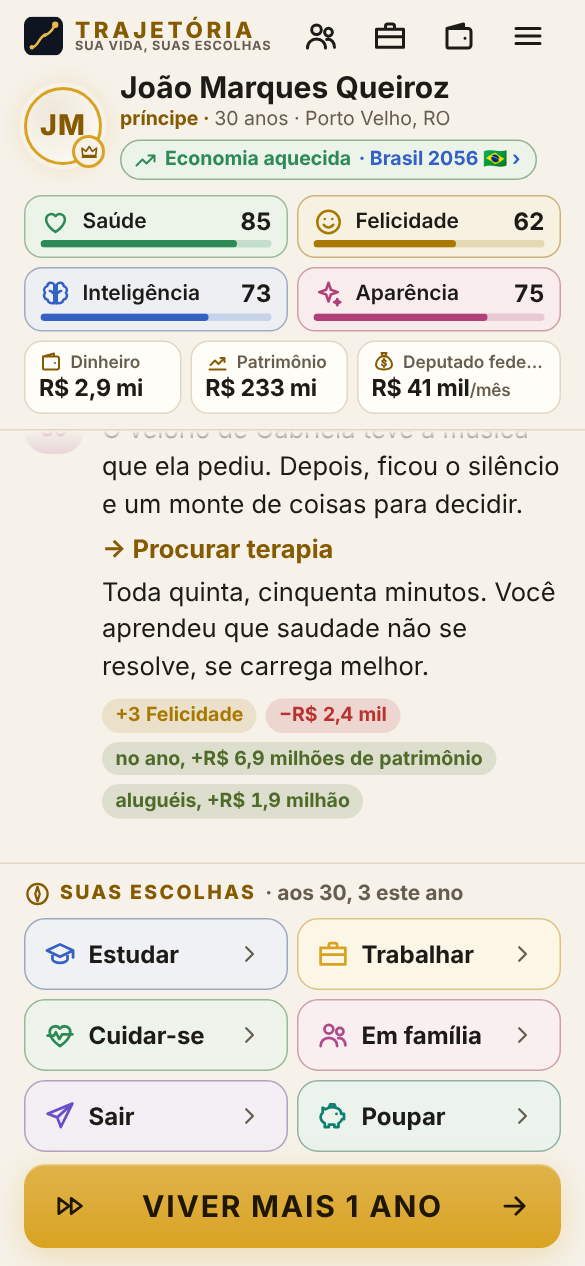
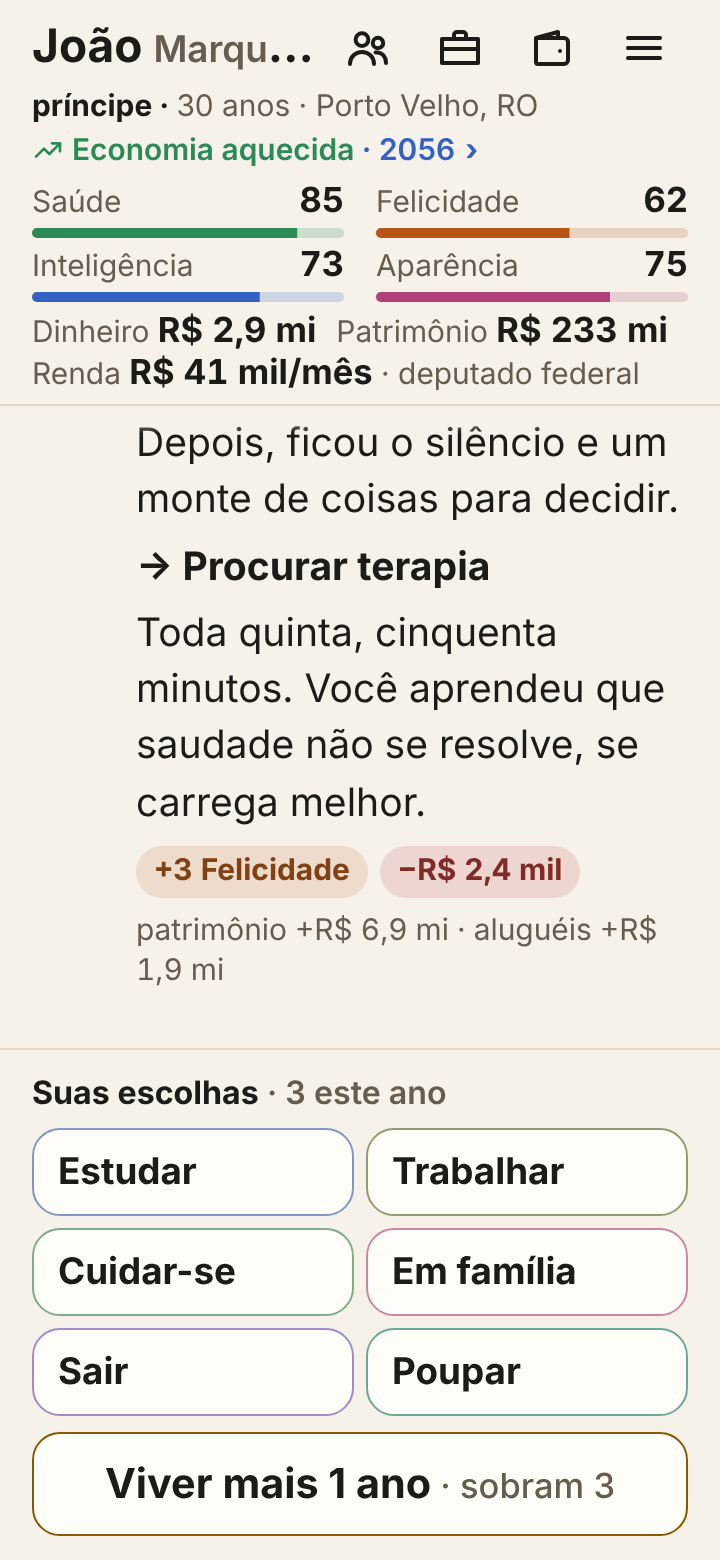
Docs: a correção C1 (README, CHANGELOG, decisões, ideias, roteiro, CLAUDE.md)
A tabela antes e depois na matriz de telas do dono, as decisões tomadas
sozinho, as duas decisões do V1 desfeitas (o botão dourado sempre e o
modo de letra grande) e as capturas novas da tela principal.

Claude-Session: https://claude.ai/code/session_01CaWs8gCUwGGhk5FAdTMm4u

diff --git a/docs/decisoes.md b/docs/decisoes.md
@@ -961,8 +961,8 @@ A tela de hoje já tinha todos os elementos do mockup, sem identidade visual. O 
 - **A rosca do patrimônio não entrou no cabeçalho.** Ela custaria mais 60 px de história. Vai para a folha Dinheiro (I-98).
 - **Iniciais no lugar da foto.** O jogo não tem imagens de pessoas, e um rosto sorteado seria um personagem que o conteúdo não conhece.
 - **O pacote não substituiu o código.** O JS dele é o bundle compilado de um APK anterior às últimas atualizações. Trocar a pasta web apagaria o bloco A e as fatias recentes, e o próprio README do pacote avisa do risco de reassinar o APK. As ideias de CSS dele entraram no código-fonte, na paleta do mockup (ouro, não terracota).
-- **O botão dourado sempre.** Antes, o "+1 ano" ficava cinza enquanto havia ação no ano, para puxar o jogador para os verbos. O mockup o põe sempre em ouro. A contagem "aos 30, 3 este ano" passa esse recado no título das escolhas.
-- **Detectar a letra grande em vez de adivinhar.** O app Android herda a fonte do celular, que aumenta o texto e não as caixas. Com a sonda, o arranjo estreito só aparece para quem precisa.
+- **O botão dourado sempre.** Antes, o "+1 ano" ficava cinza enquanto havia ação no ano, para puxar o jogador para os verbos. O mockup o põe sempre em ouro. A contagem "aos 30, 3 este ano" passa esse recado no título das escolhas. *Desfeita na correção C1 (20/10): no aparelho do dono a contagem saía cortada, e o botão dourado fazia passar o ano sem as escolhas.*
+- **Detectar a letra grande em vez de adivinhar.** O app Android herda a fonte do celular, que aumenta o texto e não as caixas. Com a sonda, o arranjo estreito só aparece para quem precisa. *Desfeita na correção C1 (20/10): o limiar trocava o arranjo de uma vez, e na letra do dono (1,45) os dois arranjos cortavam texto.*
 
 **Medidas** (navegador, a altura da linha do tempo; antes = a versão do bloco A):
 
@@ -1018,6 +1018,86 @@ O APK assinado sai do workflow `App Android` a cada push na `main`. O passo do G
 - **A rosca do patrimônio** (I-98).
 - **Escolher o tema dentro do jogo** (I-99).
 - **O ícone do app Android instalado** (I-100). Os ícones do navegador mudaram; os do APK são outros arquivos.
+
+## Correção C1: a história de volta ao centro (20/10)
+
+O dono jogou o V1 e respondeu com uma lista: perdeu qualidade, originalidade, diversão, hierarquia de interface e de cores, dimensionamento de tela e de botões, inteligência mecânica e de funcionamento, propósito, otimização, capacidade, carinho, cuidado e perfeição. "Faça o que é preciso para salvar o jogo."
+
+**O erro foi de medida.** O V1 foi medido num celular comum (390 × 844) com a letra normal, e a 360 × 760 com a letra em 1,45. O aparelho do dono tem 360 × 780 e a letra do sistema por volta de 1,45. Nesse aparelho:
+- a linha do tempo, que é a história, ficava com 20–28% da tela;
+- durante um evento, ela ficava com 11 px;
+- o dinheiro saía cortado com reticências.
+
+Uma auditoria com sete lentes e um cético por lente separou o que se confirma do que não se confirma (29 achados rejeitados, entre eles trocar o ouro por terracota: o tema noite e ouro é pedido do dono). O plano de correção tem três blocos:
+- C1, a interface (este);
+- C2, o texto que contradiz a vida;
+- C3, regras do motor que se medem errado.
+
+**O que mudou:**
+- **O cabeçalho virou uma faixa de texto.**
+  - Saíram a barra da marca, o retrato de iniciais e os cartões; o nome do jogo fica na abertura, no ícone e no cartão.
+  - O nome divide a linha com as quatro folhas.
+  - Embaixo vêm o título, a idade e a cidade, e depois o selo da economia, que é um link de texto.
+  - Os indicadores ficam em 2×2, com a barra fina.
+  - O dinheiro fica numa linha que quebra, sem cortar número. Com um evento, o cabeçalho mostra só o nome e o dinheiro.
+- **Um arranjo só.** Saíram o `letra.ts` e o modo de letra grande. O que precisa ceder cede por quebra de linha e por container queries em `em`: o ícone dos indicadores e dos verbos só aparece quando cabe.
+- **O cartão do evento é uma coluna.** O texto rola por dentro, com uma sombra na borda quando há mais. As opções ficam sempre à vista, e a história guarda três linhas.
+- **A rolagem mostra o começo do ano.** Depois do "+1 ano", a linha do tempo para no topo da primeira entrada nova, não no fim. O balanço do ano (o patrimônio, os aluguéis) virou uma linha pequena e neutra, sem pílula.
+- **O botão do ano muda com o estado.**
+  - Com escolhas sobrando, "Viver mais 1 ano · sobram 3" é o botão secundário.
+  - Sem escolhas (o bebê), é o dourado.
+  - O título das escolhas diz "Suas escolhas · 3 este ano".
+- **O ouro só onde tem papel:** o botão do ano sem escolhas, o ponto de novidade, o foco, o fio do evento e o marco.
+  - Saíram o `--brilho` e todas as sombras de brilho.
+  - O verbo Trabalhar ficou verde-dinheiro.
+  - A Felicidade passou do amarelo para o laranja.
+- **A carência de 450 ms** vale também quando um evento fecha e quando a lista de um verbo abre ou fecha.
+- **As folhas fecham onde o dedo está.** Cada folha tem o título e o Fechar fora da parte que rola, e a alça saiu (ela prometia um arrasto que não existe).
+  - Abrir uma folha empilha uma entrada no histórico, e o voltar a fecha.
+  - No APK, o `MainActivity` passa o voltar para a página.
+  - O véu perdeu o desfoque.
+- **As folhas tortas.**
+  - A Família recuperou as regras dos medidores ("Saúde43" voltou a ser "Saúde 43").
+  - A Carreira mostra o Poder primeiro para quem tem cargo, e junta numa linha as profissões e os cargos fechados pelo mesmo motivo ("49 profissões fechadas: você tem um cargo de poder · ver todas").
+  - Os cargos fechados passaram a mostrar o motivo, que antes ficava escondido.
+  - O menu se chama "Menu", e "Começar outra vida" é um botão secundário.
+- **As barras animam com `transform`**, sem refazer o layout a cada ano.
+
+**Decisões tomadas sozinho:**
+- **O nome do país saiu do selo** ("Economia aquecida · 2056 ›"). Com a letra 1,45 ele quebrava a linha. O país está na folha que o selo abre e no rótulo de acessibilidade.
+- **"Suas escolhas · 3 este ano"** no lugar de "3 para fazer aos 30": a idade já está no cabeçalho, e a frase longa quebrava em duas linhas na letra do dono.
+- **O "sobram 3" some do botão quando não cabe numa linha** (por container query). O título das escolhas diz o mesmo.
+- **Os motivos de idade, de influência e de ano de eleição agrupam juntos** ("13 profissões fechadas: só para outras idades"), porque cada profissão tem a sua faixa. A faixa de cada uma aparece em "ver todas", e não se repete quando o motivo já é a idade.
+
+**Medidas** (navegador; antes = o V1 publicado, depois = a C1; o save do dono é o "real", um deputado de 30 anos com a vida cheia):
+
+| Tela | Cabeçalho | Linha do tempo | Textos cortados | "R$" cortado |
+|---|---|---|---|---|
+| 360 × 780, letra 1,0 | 287 → 193 px | 224 → 334 px (29% → 43%) | 5 → 1 | 0 → 0 |
+| 360 × 780, letra 1,15 | 305 → 203 px | 168 → 320 px (22% → 41%) | 11 → 1 | 3 → 0 |
+| 360 × 780, letra 1,45 (a do dono) | 306 → 280 px | 186 → 234 px (24% → 30%) | 3 → 1 | 0 → 0 |
+| 390 × 844, letra 1,0 | 287 → 196 px | 288 → 395 px (34% → 47%) | 1 → 1 | 0 → 0 |
+| 320 × 640, letra 1,0 | 269 → 193 px | 128 → 198 px (20% → 31%) | 16 → 1 | 3 → 0 |
+| Evento, 360 × 780, letra 1,0 | 287 → 95 px | 65 → 256 px | 5 → 1 | 2 → 0 |
+| Evento, 360 × 780, letra 1,45 | 114 → 95 px | 11 → 107 px | 1 → 1 | 0 → 0 |
+
+O único texto cortado que sobra é o sobrenome no nome.
+
+| Conferência | Antes | Depois |
+|---|---|---|
+| Toque duplo numa opção de evento: o ano passou (40 eventos, 360 × 780, letra 1,15) | 12 | 0 |
+| Toque duplo no verbo: agiu sem querer (6 verbos) | 5 | 0 |
+| O Fechar das folhas, distância do topo (Carreira) | 6.096 px (o Voltar no fim) | 56 px |
+| A folha Carreira, telas de rolagem (save do dono) | 8,4 | 2,0 |
+| Voltar com a folha aberta | sai do jogo | fecha a folha |
+| A primeira entrada nova do ano à vista depois do "+1 ano" (save do dono, letra 1,15) | começava 279 px acima, 0 px de texto | começa no topo, 255 px de texto |
+| Cor viva na tela principal | 14% | 2% |
+| Felicidade × ouro (matiz), escuro / claro | 3° / 0,5° | 18,5° / 19° |
+| `var(--destaque` no CSS / `var(--brilho` | 47 / 5 | 23 / 0 |
+| Varredura da letra de 1,00 a 1,50 em passos de 0,02: a linha do tempo cresce mais de 4 px entre dois passos | sim: 56 px no limiar da letra grande (189 px com evento) | nunca |
+| Letra abaixo de 12 px (letra 1,0) | 5 | 0 |
+
+O motor não mudou: o túnel dá as mesmas vidas.
 
 ## Próximos passos (núcleo)
 

diff --git a/README.md b/README.md
@@ -2,7 +2,7 @@
 
 [![CI e deploy](https://github.com/Lhordriyon/Calculadora-Viva/actions/workflows/ci.yml/badge.svg)](https://github.com/Lhordriyon/Calculadora-Viva/actions/workflows/ci.yml)
 [![App Android](https://github.com/Lhordriyon/Calculadora-Viva/actions/workflows/android.yml/badge.svg)](https://github.com/Lhordriyon/Calculadora-Viva/actions/workflows/android.yml)
-![Atualização](https://img.shields.io/badge/atualiza%C3%A7%C3%A3o-V1%3A%20a%20cara%20nova-D9A321)
+![Atualização](https://img.shields.io/badge/atualiza%C3%A7%C3%A3o-C1%3A%20a%20hist%C3%B3ria%20no%20centro-D9A321)
 ![Histórias](https://img.shields.io/badge/hist%C3%B3rias-743-2EA043)
 ![Vidas testadas](https://img.shields.io/badge/t%C3%BAnel-10.000%20vidas%20por%20push-1F6FEB)
 ![Idioma](https://img.shields.io/badge/idioma-pt--BR-009C3B)
@@ -15,46 +15,47 @@
 
 ---
 
-## 🆕 Novidades: Bloco V1 · A cara nova (19/10/2026)
+## 🆕 Novidades: Correção C1 · A história de volta ao centro (20/10/2026)
 
 <p align="center">
-  <img src="docs/imagens/tela-escura.png" alt="A tela principal no tema escuro: a marca Trajetória em ouro, o retrato com as iniciais e uma coroa, a economia aquecida, os quatro indicadores em cartões coloridos, o dinheiro em três cartões, a história do ano e os seis verbos com ícone, e o botão dourado Viver mais 1 ano" width="290" />
+  <img src="docs/imagens/tela-escura.png" alt="A tela principal no tema escuro, num celular de 360 por 780 com a letra do sistema um pouco maior: no alto, o nome e os quatro botões das folhas; embaixo, o título, a idade e a cidade, o link da economia, os quatro indicadores com barra fina e o dinheiro numa linha; no meio, a história do ano; embaixo, as seis escolhas e o botão Viver mais 1 ano, que diz quantas escolhas sobram" width="290" />
   &nbsp;
-  <img src="docs/imagens/tela-clara.png" alt="A mesma tela no tema claro, em papel creme com ouro velho" width="290" />
+  <img src="docs/imagens/tela-clara.png" alt="A mesma tela no tema claro, em papel creme" width="290" />
 </p>
 
+> [!IMPORTANT]
+> **O que aconteceu:** a cara nova (V1) foi medida num celular comum, com a letra normal. No celular do dono, com a letra do sistema maior, os cartões do cabeçalho tomavam a tela, a história ficava com um quarto dela (e com 11 px durante um evento), o dinheiro saía cortado e o botão dourado fazia passar o ano sem as escolhas. Esta correção mediu tudo de novo, em sete tamanhos de tela e letra, nos dois temas. O tema noite e ouro ficou.
+
 > [!TIP]
-> **Para ver:** é só abrir o jogo. O tema segue o do celular (escuro ou claro). O primeiro dia de escola, aos 5 ou 6 anos, já aparece como **marco da trajetória**, no cartão dourado da linha do tempo; depois vêm o ENEM, o primeiro emprego, a formatura e a aposentadoria. Quem nasce na família real ou no Regime, chega ao trono ou passa de R$ 1 bilhão ganha a coroa no retrato.
+> **Para testar:** jogue com a letra do celular do jeito que você usa. Confira que a história do ano aparece do começo depois de "Viver mais 1 ano", que o dinheiro aparece inteiro, que o botão diz quantas escolhas sobram e que, num evento, as opções ficam sempre à vista. Abra uma folha (Família, Carreira, Dinheiro) e feche pelo **X** no topo ou pelo voltar do Android. Se puder, mande uma captura da tela principal: ela confirma o tamanho da letra do seu celular.
 
-Inspirada no mockup que o dono mandou: fundo azul-noite com ouro, os indicadores em cartões, o dinheiro em cartões, os verbos com ícone e o botão dourado. A linha do tempo continua no meio da tela, porque ela é a história.
-
-| ✅ O que esta atualização trouxe | ⏳ O que ela ainda não trouxe |
+| ✅ O que esta correção trouxe | ⏳ O que ela ainda não trouxe |
 |---|---|
-| 🌙 **Tema noite e ouro** nos dois modos: azul-noite com ouro no escuro, papel creme com ouro velho no claro | 📷 **Foto no retrato:** o retrato mostra as iniciais (o jogo não tem imagens de pessoas) |
-| 🏷 **Barra da marca** com o símbolo e "sua vida, suas escolhas"; símbolo e ícones do app em ouro | 🍩 **A rosca do patrimônio** (de que é feito o dinheiro): fica para a folha Dinheiro |
-| 👤 **Retrato** com as iniciais e o aro dourado; **coroa** para a realeza, o Regime, o trono e quem tem bilhão | ⚙ Um botão para **escolher o tema** dentro do jogo (hoje segue o celular) |
-| 📈 **Selo da economia** (aquecida, normal, recessão, crise) com o ano; tocar abre o país | 📱 O **ícone do app Android** instalado continua o antigo (só o do navegador mudou) |
-| ❤ **Saúde, felicidade, inteligência e aparência** em cartões com ícone, cor e barra | |
-| 💰 **Dinheiro, patrimônio e renda** em três cartões; o cargo aparece no cartão da renda; a dívida, em vermelho | |
-| 🧭 **Suas escolhas:** os seis verbos com ícone e cor, e o ponto dourado no que é novo | |
-| 👑 **Marco da trajetória:** o primeiro dia de escola, o ENEM, o primeiro emprego, a aposentadoria… ganham o cartão dourado na própria história | |
-| ⏩ **Viver mais 1 ano** em ouro, sempre no polegar | |
-| 🔠 **Letra grande:** com a fonte do celular aumentada, os indicadores vão para uma linha e os nomes aparecem inteiros | |
-| ✨ O acabamento do pacote visual que o dono mandou, comparado regra por regra com o código: fio de ouro no evento, opções mais táteis, folhas com alça, cartões com sombra, telas baixas mais justas | |
+| 📖 **A história no centro:** o cabeçalho virou uma faixa de texto (o nome, a idade, a economia, os indicadores e o dinheiro), sem cartões nem retrato | ✍ **Correção C2**, o texto que contradiz a vida: pessoas que já morreram falando, irmãos trocados, concordância ("tioa") |
+| 💰 **Nenhum número cortado:** o dinheiro quebra linha em vez de virar "R$ 2,9…" | ⚙ **Correção C3**, regras que se medem errado: a régua do dinheiro, os falsos dilemas, os mandatos sem fim |
+| ⏩ **O botão do ano diz quantas escolhas sobram** ("Viver mais 1 ano · sobram 3") e só fica dourado quando não há o que escolher | 📱 O ícone novo no app Android instalado |
+| 👆 **O toque duplo não passa mais o ano:** depois de um evento, o segundo toque é ignorado (passava o ano 12 vezes em 40) | 🍩 A rosca do patrimônio na folha Dinheiro |
+| 🎴 **No evento, as opções ficam sempre à vista**; o texto longo rola por dentro, e a história guarda três linhas | |
+| 📜 **A rolagem mostra o começo do ano**, não o fim; o balanço do ano virou uma linha pequena | |
+| ❌ **As folhas fecham no topo** (o X) e com o **voltar do Android**, que antes fechava o app | |
+| 👨👩👧 **Família** com os medidores certos de novo; **Carreira** com o Poder primeiro para quem tem cargo e as profissões fechadas numa linha só, com o motivo | |
+| 🌙 **O ouro só onde tem papel:** o marco da trajetória, o ponto de novidade, o fio do evento; a Felicidade virou laranja para não se confundir com ele | |
+| 🔠 **Um arranjo só** para qualquer tamanho de letra: o que precisa ceder quebra linha, sem trocar a tela de repente | |
 
-**Medido no navegador** (a altura que sobra para a linha do tempo, a história):
+**Medido no navegador**, no tamanho do celular do dono (360 × 780), com o save de uma vida cheia:
 
-| Tela | Antes | Agora |
+| Letra do sistema | História (linha do tempo) antes | Agora |
 |---|---|---|
-| 📱 Celular comum (390 × 844), 4 verbos | 419 px | 342 px |
-| 📱 Celular comum, 6 verbos | 352 px | 288 px |
-| 🔠 Celular pequeno (360 × 760) com a letra em 145%, 6 verbos | 152 px | 166 px |
+| 🔤 Normal (1,0) | 224 px · 29% da tela | 334 px · 43% |
+| 🔤 Um pouco maior (1,15) | 168 px · 22% | 320 px · 41% |
+| 🔠 Grande (1,45, a do dono) | 186 px · 24% | 234 px · 30% |
+| 🎴 Grande, com um evento na tela | 11 px | 107 px |
 
-Nenhuma rolagem para o lado, nenhum alvo de toque abaixo de 44 px e nenhum erro no console, nos dois temas. O motor não mudou: o túnel de vento dá as mesmas vidas. O histórico de atualizações está no [📜 CHANGELOG](CHANGELOG.md).
+Nenhuma rolagem para o lado, nenhum alvo de toque abaixo de 44 px, nenhuma letra abaixo de 12 px e nenhum erro no console, nos dois temas. O motor não mudou: o túnel de vento dá as mesmas vidas. O histórico de atualizações está no [📜 CHANGELOG](CHANGELOG.md).
 
 ## 🗺 Os próximos blocos
 
-Pedidos do dono em 19/10, em blocos pequenos, na ordem em que um precisa do outro (a cara nova, V1, entrou no meio, a pedido dele):
+Pedidos do dono em 19/10, em blocos pequenos, na ordem em que um precisa do outro. A cara nova (V1) e a correção dela (C1 a C3) entraram no meio, a pedido dele:
 
 ```mermaid
 flowchart LR

diff --git a/docs/ideias.md b/docs/ideias.md
@@ -1075,7 +1075,7 @@ O dono pediu atualizações em blocos pequenos, nesta ordem de interesse. A orde
   - a linha do tempo com pelo menos um terço da tela num celular comum (390 × 844);
   - alvos de toque ≥ 44 px.
 - **Prioridade:** Alta · pedido do dono.
-- **Estado:** feita (bloco V1, 19/10). A linha do tempo ficou com 342 px num celular comum, de 844 (era 419). Com a letra em 145%, ficou com 166 px (era 152).
+- **Estado:** feita (bloco V1, 19/10). A linha do tempo ficou com 342 px num celular comum, de 844 (era 419). Com a letra em 145%, ficou com 166 px (era 152). Corrigida em 20/10 (I-101): o cabeçalho de cartões, o retrato, a barra da marca e o modo de letra grande saíram.
 
 ### I-98 · De que é feito o patrimônio
 - **Problema:** o mockup do dono tem uma rosca com a composição do patrimônio (empresas, investimentos, bens, dinheiro). No cabeçalho, ela custaria a altura da linha do tempo.
@@ -1112,6 +1112,28 @@ O dono pediu atualizações em blocos pequenos, nesta ordem de interesse. A orde
 - **Aceitação:** `npm run icones` desenha também os ícones do Android, e o APK sai com o ícone novo.
 - **Prioridade:** Baixa.
 - **Estado:** proposta (bloco V1).
+
+### I-101 · A história de volta ao centro (correção C1 da cara nova)
+- **Problema:** o dono jogou o V1 e disse que o jogo perdeu qualidade, hierarquia, dimensionamento, cuidado e diversão (19/10). A auditoria (`docs/decisoes.md`, correção) mediu no aparelho dele, com a letra do sistema em 1,45 numa tela de 360 × 780:
+  - a linha do tempo com 20–28% da tela e, durante um evento, 11 px;
+  - números do dinheiro cortados com reticências;
+  - o botão dourado do ano pulando as escolhas que sobravam;
+  - o segundo toque de um toque duplo passando o ano depois de um evento (12 em 40);
+  - folhas que só fecham rolando até o fim, e o voltar do Android fechando o app;
+  - a Família com o CSS quebrado ("Saúde43");
+  - a Carreira com 56 profissões antes do Poder.
+- **Módulos:** 13.
+- **Depende de:** I-97.
+- **Custo:** M de implementação; nenhum de simulação.
+- **Consome:** nada.
+- **Efeitos causais:** nenhum no motor.
+- **Riscos:**
+  - desfazer a identidade que o dono pediu (o tema noite e ouro fica);
+  - esconder rótulos para caber (proibido: o arranjo cede por quebra de linha);
+  - o voltar no APK, que não dá para testar sem o aparelho.
+- **Aceitação:** os critérios do plano de correção, item 1 a 10, medidos na matriz 360 × 780 (letra 1,0 a 1,45), 390 × 844, 412 × 915 e 320 × 640, nos dois temas.
+- **Prioridade:** Alta · pedido do dono.
+- **Estado:** feita (correção C1, 20/10).
 
 ## Defeitos conhecidos
 

diff --git a/CHANGELOG.md b/CHANGELOG.md
@@ -4,6 +4,41 @@ Cada atualização vai ao ar inteira: jogável, medida pelo túnel de vento (10.
 
 ---
 
+## 📖 Correção C1 · A história de volta ao centro · 20/10/2026
+
+> [!NOTE]
+> O dono jogou o V1 e disse que o jogo perdeu qualidade, hierarquia, dimensionamento e cuidado. Medido no celular dele (360 × 780, letra do sistema em 1,45), o cabeçalho de cartões tomava a tela, o dinheiro saía cortado, o botão dourado pulava as escolhas e o toque duplo passava o ano. O motor não mudou.
+
+- 📖 **O cabeçalho virou uma faixa de texto:**
+  - o nome divide a linha com as quatro folhas;
+  - embaixo, o título, a idade e a cidade;
+  - o selo da economia é um link;
+  - os indicadores ficam em 2×2 com a barra fina, e o dinheiro numa linha que quebra.
+  - Saíram a barra da marca, o retrato e os cartões. Com um evento na tela, ficam só o nome e o dinheiro.
+- 🔠 **Um arranjo só,** sem o modo de letra grande: o que precisa ceder quebra linha. O ícone dos indicadores e dos verbos só aparece quando cabe.
+- 🎴 **O cartão do evento:** o texto rola por dentro, com uma sombra quando há mais; as opções ficam sempre à vista, e a história guarda três linhas.
+- 📜 **A rolagem para no começo do ano** depois do "+1 ano". O balanço do ano virou uma linha pequena e neutra.
+- ⏩ **O botão do ano:**
+  - com escolhas sobrando, é o secundário e diz "sobram 3";
+  - sem escolhas, é o dourado;
+  - o título diz "Suas escolhas · 3 este ano".
+- 👆 **Toque duplo:** a carência de 450 ms vale também quando um evento fecha e quando a lista de um verbo abre ou fecha. Depois de um evento, o segundo toque passava o ano 12 vezes em 40; agora, nenhuma.
+- ❌ **Folhas:**
+  - o título e o X ficam fora da parte que rola;
+  - o voltar do navegador e o do Android fecham a folha (no APK, o voltar fechava o app);
+  - saíram a alça e o fundo desfocado.
+- 👨👩👧 **Família** com os medidores de volta ("Saúde43" → "Saúde 43").
+- 💼 **Carreira:**
+  - o Poder vem primeiro para quem tem cargo;
+  - as profissões e os cargos fechados pelo mesmo motivo viram uma linha só, com o motivo;
+  - os cargos fechados passaram a dizer por quê.
+- 🌙 **O ouro só onde tem papel:**
+  - o marco, o ponto de novidade, o fio do evento e o botão do ano sem escolhas;
+  - saiu o brilho dourado;
+  - o verbo Trabalhar ficou verde, e a Felicidade, laranja.
+
+**Ainda não tem:** as correções C2 (o texto que contradiz a vida) e C3 (regras do motor que se medem errado), o ícone novo no app Android e a rosca do patrimônio.
+
 ## 🌙 Bloco V1 · A cara nova · 19/10/2026
 
 > [!NOTE]

diff --git a/docs/roteiro.md b/docs/roteiro.md
@@ -33,6 +33,9 @@ Daqui em diante, os incrementos são as fatias das fases. Toda ideia nova entra 
 
 - [x] Bloco A: o país em números. O país ganhou PIB (em reais de hoje, que cresce o crescimento do ano), população (que para de crescer por volta de 2045 e encolhe depois), PIB per capita, Gini (a violência passou a ler a desigualdade) e IDH. A folha País mostra os cinco na seção "Em números", e cinco histórias novas os leem
 - [x] Bloco V1: a cara nova (pedido do dono no meio dos blocos, com um mockup e depois um pacote de CSS). Tema noite e ouro, cabeçalho com a marca, o retrato, o selo da economia, os indicadores e o dinheiro em cartões, os verbos com ícone, o botão dourado, os marcos em dourado na linha do tempo e o arranjo para a letra grande
+- [x] Correção C1 (20/10): a história de volta ao centro. O dono jogou o V1 e disse que o jogo perdeu qualidade, hierarquia, dimensionamento e cuidado. Medido no aparelho dele (360 × 780, letra 1,45), o cabeçalho de cartões tomava a tela e cortava o dinheiro, o botão dourado pulava as escolhas e o toque duplo passava o ano. O cabeçalho virou uma faixa de texto, o ouro ficou só onde tem papel, o botão do ano diz quantas escolhas sobram, as folhas fecham no topo e com o voltar do Android. O tema noite e ouro ficou
+- [ ] Correção C2: o texto não contradiz a vida (mortos que falam, filhos e irmãos trocados, concordância)
+- [ ] Correção C3: regras que se medem direito (a régua do dinheiro, os falsos dilemas, os mandatos, a herdeira)
 - [ ] Bloco B: o Tesouro. O orçamento do governo em reais (I-31) e o título público como contrato: comprado por quem joga ou pela empresa, entra no balanço e paga cupom no caixa de quem comprou (I-34)
 - [ ] Bloco C: a coroa recebe. A dotação da Casa Real sai do Tesouro (I-41); a ilha soberana ganha população, PIB e imposto (o começo da I-43)
 - [ ] Bloco D: o Estado pesquisa. Quem governa põe parte do orçamento em pesquisa, e o estoque de tecnologia volta como produtividade, cura ou patente (I-54)
